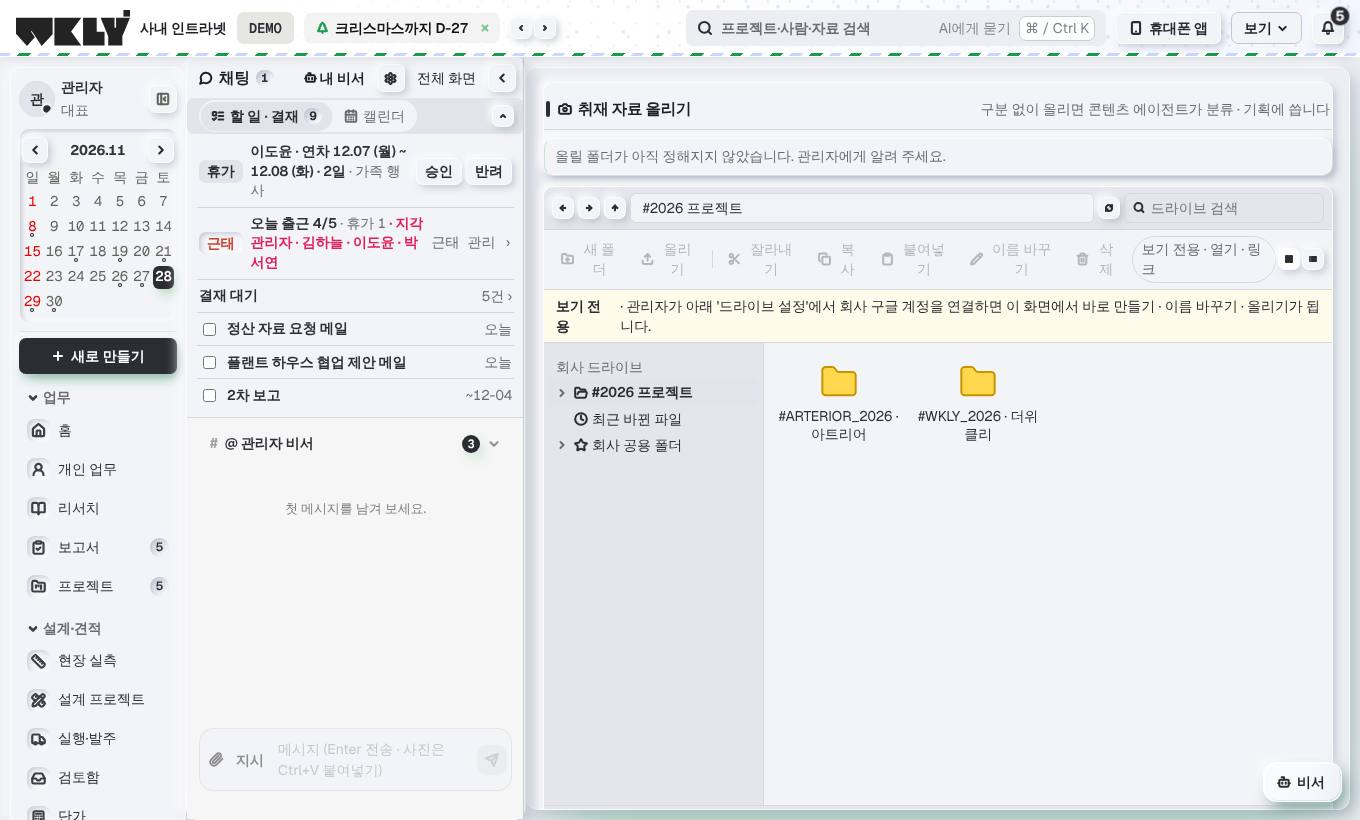
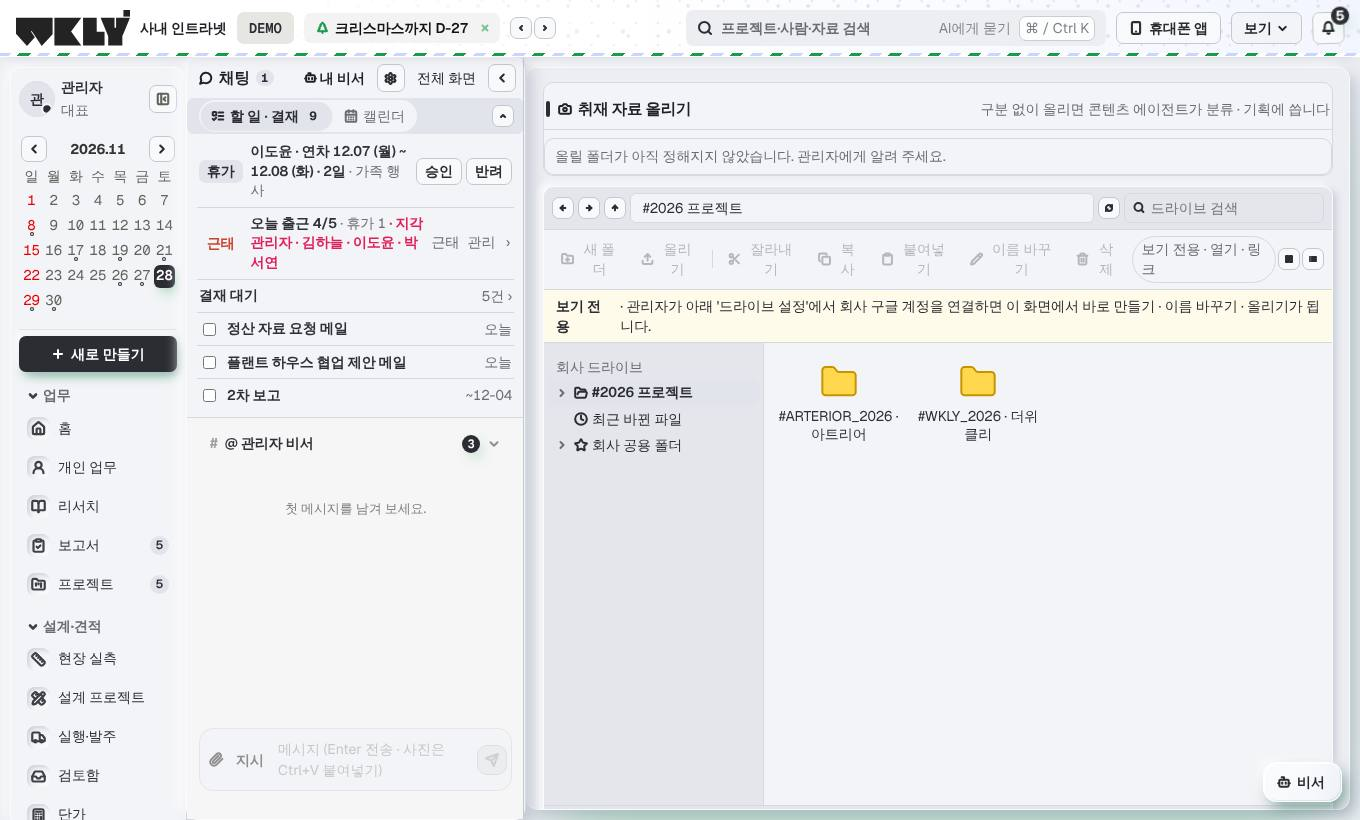
디자인 v9 절제: 깊이는 한 단계만, 카드 안은 평평하게
Claude-Session: https://claude.ai/code/session_01F3gTQwJrgJEzSdbh5GAwru

diff --git a/erp/src/mono.css b/erp/src/mono.css
@@ -398,3 +398,41 @@ html:not([data-theme="dark"]) :is(.pane-list.chat-list, .chat-dock-in) :is(a.ite
 html:not([data-theme="dark"]) :is(.quick-composer, .chat-composer, .composer) { background: var(--nm-face); border: 0; border-radius: 12px; box-shadow: var(--nm-in-sm); }
 html:not([data-theme="dark"]) :is(.quick-composer, .chat-composer, .composer) :is(textarea, input[type="text"]) { background: transparent; box-shadow: none !important; }
 html:not([data-theme="dark"]) .chat-day { background: var(--nm-face); box-shadow: var(--nm-in-sm); border-radius: 7px; }
+
+/* ================================================================================
+   절제 (2026-11-28 대표 '양각과 음각을 너무 많이 사용하지마 사용성 떨어져') — 이 절이 위의 볼록 · 오목 규칙보다 우선
+   - 깊이는 한 단계만: 떠 있는 것 = 큰 카드 · 본문 판 · 주 버튼 · 비서 단추 · 접힌 채팅 손잡이. 눌린 것 = 왼쪽 메뉴 아이콘 칸뿐
+   - 카드 안의 것(표 · 줄 · 칩 · 작은 버튼 · 입력 칸 · 고르기 칸 · 막대)은 평평하게: 옅은 선 한 줄이나 연한 바탕으로만 구분
+   ================================================================================ */
+html:not([data-theme="dark"]) { --nm-flat: #e6e9ee; --nm-field: #f8f9fb; }
+/* 입력 · 고르기 칸: 평평한 밝은 칸 + 선 */
+html:not([data-theme="dark"]) :is(.input, .select, .textarea, input[type="text"], input[type="search"], input[type="date"], input[type="number"], input[type="password"], input[type="email"], select, textarea) { background: var(--nm-field); border: 1px solid var(--v8-line-2) !important; box-shadow: none; }
+html:not([data-theme="dark"]) :is(.input, .select, .textarea, input, select, textarea):focus { border-color: var(--v9-ink) !important; box-shadow: 0 0 0 3px color-mix(in srgb, var(--v9-accent) 22%, transparent) !important; }
+/* 작은 버튼 · 칩: 평평 */
+html:not([data-theme="dark"]) :is(.btn-outline, .btn-ghost, .icon-btn, .quick-btn, .chip, .dock-fold, .btn-blue, .btn-yellow, .send-btn):not(.btn-primary):not(.new-btn) { background: var(--nm-field); border: 1px solid var(--v8-line-2) !important; box-shadow: none !important; }
+html:not([data-theme="dark"]) :is(.btn-outline, .btn-ghost, .icon-btn, .quick-btn, .chip, .btn-blue, .btn-yellow, .send-btn):not(.btn-primary):not(.new-btn):hover:not(:disabled) { background: #fff; border-color: var(--v9-ink) !important; box-shadow: none !important; }
+html:not([data-theme="dark"]) :is(.btn, .icon-btn, .quick-btn, .chip):active { box-shadow: none; }
+html:not([data-theme="dark"]) :is(.chip.active, .chip.on, .ads-subnav button.active) { background: var(--v9-ink) !important; color: #fff !important; border-color: var(--v9-ink) !important; box-shadow: none !important; }
+/* 구간 고르기: 평평한 회색 홈 + 흰 칸 */
+html:not([data-theme="dark"]) :is(.ads-segment, .seg, .right-tabs, .ads-nav) { background: var(--nm-flat); box-shadow: none; }
+html:not([data-theme="dark"]) :is(.ads-segment, .seg, .right-tabs) button:is(.active, .on), html:not([data-theme="dark"]) .ads-nav button.active { box-shadow: 0 1px 2px rgba(120, 128, 148, .35) !important; }
+/* 카드 안의 카드 · 표 묶음 · 줄: 평평 */
+html:not([data-theme="dark"]) :is(.box, .stat, .kpi, .card, .dash-card, .section, .panel, .week-day, .sales-pipe, .weekly-box, details.box, .main) :is(.box, .stat, .kpi, .card, .board-wrap, .guide-card, .form-grid, .note, .section, .panel, .tile, .list-card, .sales-pipe-step, .ledger-kpi, .rd-kpi, .myproj-card, .ai-card, .gov-tile, .dash-day, .week-day) { box-shadow: none; border: 1px solid var(--v8-line) !important; }
+html:not([data-theme="dark"]) .board-wrap { box-shadow: none; border: 1px solid var(--v8-line); background: var(--nm-field); }
+html:not([data-theme="dark"]) .dash-body { box-shadow: none; background: transparent; }
+html:not([data-theme="dark"]) :is(.week-item, .dash-ev, .dash-d, .chat-day) { background: var(--nm-flat); box-shadow: none; }
+html:not([data-theme="dark"]) :is(.meter, .pc-bar, .dash-prog, .dash-vbar-track) { background: var(--nm-flat); box-shadow: none; }
+html:not([data-theme="dark"]) .dash-flow-col i:not([class]), html:not([data-theme="dark"]) .dash-flow-col i[class=''] { background: var(--nm-flat); box-shadow: none; }
+html:not([data-theme="dark"]) :is(.badge.red, .badge.late, .tag.red) { box-shadow: none; }
+html:not([data-theme="dark"]) .app-page .profile :is(.side-n, .side-item .count), html:not([data-theme="dark"]) .section-head .count, html:not([data-theme="dark"]) .side-n { box-shadow: none !important; }
+html:not([data-theme="dark"]) .app-page .profile .mini-cal { box-shadow: none; border: 0 !important; background: transparent !important; }
+html:not([data-theme="dark"]) .dash-kpi-ic { box-shadow: none; background: var(--nm-flat); }
+html:not([data-theme="dark"]) .dash-kpi.is-key .dash-kpi-ic { background: var(--v9-ink); box-shadow: var(--nm-neon-sm); }
+/* 채팅: 목록 · 입력 칸 평평 */
+html:not([data-theme="dark"]) .pane-list.chat-list { box-shadow: none; border-right: 1px solid var(--v8-line); }
+html:not([data-theme="dark"]) :is(.pane-list.chat-list, .chat-dock-in) :is(a.item, button.item, .q2-room):is(.active, .on) { background: var(--nm-flat); box-shadow: none; }
+html:not([data-theme="dark"]) :is(.quick-composer, .chat-composer, .composer) { background: var(--nm-field); border: 1px solid var(--v8-line-2); box-shadow: none; }
+html:not([data-theme="dark"]) .bubble { box-shadow: none; border: 1px solid var(--v8-line); background: var(--nm-field); }
+html:not([data-theme="dark"]) :is(.bubble.mine, .msg.mine .bubble) { box-shadow: none; border-color: transparent; }
+html:not([data-theme="dark"]) button.item:is(.active, .on) { box-shadow: none; background: var(--nm-flat); }
+@media (max-width: 760px) { html:not([data-theme="dark"]) .m-nav > .on { box-shadow: none; background: var(--nm-flat) !important; } html:not([data-theme="dark"]) .m-more-grid > a { box-shadow: none; border: 1px solid var(--v8-line); } }

diff --git a/CLAUDE.md b/CLAUDE.md
@@ -112,7 +112,7 @@ Codex 공동 개발은 끝났다(2026-11-16 종료 · 2026-11-20 대표 지시 '
   - `src/styles.css` : 디자인 토큰 · WKLY v7 디자인 시스템 (사각 모서리, 글자 크기 단계 `--fs-cap 12 · sm 12.5 · body 13.5 · sub 14.5 · title 16 · num 19 · hero 28` (2026-11-09 위계 다시 잡음 · 맨 아래 :root 가 최종값 · 터치 화면은 반 단계 큼))
   - (아래 글자 위계의 굵기 800 · 700 은 2026-11-28 디자인 v9 에서 700 · 600 으로, 색 값은 mono.css 토큰으로 바뀜 — 크기 3단계 · px 직접 쓰지 않기 규칙은 그대로)
   - **글자 위계 (2026-11-17 대표 지시 '전체 공통사항 · 글자 크기는 타이틀 · 본문 · 강조 3가지만 · 색 구분과 볼드 규칙') — 새 화면도 반드시 지킬 것**: `src/type.css` 를 main.tsx 맨 끝에서 읽어 앞의 모든 단계를 덮어씀. 크기 3개 = 타이틀 `--t-title` 18px(제목 · 큰 숫자) · 강조 `--t-em` 15.5px(소제목 · 이름 줄) · 본문 `--t-body` 14px(나머지 전부 — 날짜 · 메타 · 배지 포함, 터치 화면 18.5/16/15) · 예전 토큰은 cap/sm/small/body → 본문, sub → 강조, title/num/hero → 타이틀로 이어짐. CSS 에 px 글자 크기를 새로 쓰지 말고 var(--fs-body | --fs-sub | --fs-title) 만 쓸 것(2026-11-17 에 94곳 바꿈 · 예외는 알림 숫자 동그라미 .side-n · .q2-badge · .bell .count 12px). 굵기 3개 = 800 타이틀 · 700 강조 · 400 본문(500 · 600 · 650 · 750 안 씀 · 76곳 바꿈). 색 = --tx-title #151d18 · --tx-body #222a25 · --tx-sub #535c56(보조는 크기 대신 색으로 낮춤 · --gray 도 이 색) · --tx-key #1f6b4a(누를 수 있는 것 · 고른 것) · 빨강은 지연 · 경고만. 묶음 클래스 .tx-title · .tx-em · .tx-body · .tx-sub · .tx-key. 차트 SVG 글자(charts.tsx 등)는 그대로
-  - **디자인 v9 모노톤 + 네온 빛 (2026-11-28 대표가 핀터레스트 참고 화면 넷을 골라 '이것들을 조합해서 디자인잡아 · 인트라넷 디자인 전체를 변경해 · 모노톤과 네온 효과' → '남은 화면들도 모노톤으로 · 폰트와 디자인규칙까지 모두 변경해 · 대시보드또한 디자인 배치 다시' · '색은 첨부이미지와 같이 네온 효과' · '빛이 새어나가는 효과를 잘 만들어') — 규칙 문서 `erp/docs/DESIGN_V9.md` · 새 화면도 반드시 이 규칙**: `src/mono.css`(main.tsx 맨 끝)가 토큰을 정함. ① 색 = 회색 계열 하나(바탕 #f0f0ee · 흰 카드 · 먹색 #141414 = 고른 것 · 막대) + 네온 파랑 `--v9-accent` #1f4dff 하나 · 빨강 · 노랑은 지연 · 경고만 · 초록 점은 '정상'만 ② 네온 = 가장자리에서 오른쪽 아래로 새어 나가는 파랑 빛 `--glow-1/2/3` · `--neon-soft` — 주 버튼 · 고른 것 · 오늘 · 가장 중요한 숫자 하나 · 누를 수 있는 카드 hover 에만, 글자색으로는 안 씀 ③ 글꼴 = 영문 · 숫자 Geist · 한글 Pretendard · 큰 숫자 · 연번 Geist Mono(구글 폰트 · index.html) · 크기 18 / 15.5 / 14 그대로 + 큰 숫자 `--t-num` 24 · **굵기 700 / 600 / 400**(예전 800 / 700 을 CSS 전체에서 한 단계씩 내림) ④ 모서리 카드 14 · 버튼 10 · 알약 ⑤ 카드 틀 = 회색 머리 + 흰 본문. 같은 날 **모든 CSS 의 굳은 색을 회색으로 바꿈**(초록 · 미색 · 보라 → 같은 밝기 회색 · 파랑 → `--v9-accent` / `-tint` · '화면 어둡게' 규칙 줄은 그대로 · 빨강 · 주황 · 노랑은 그대로) — **새 CSS 에 색 값을 직접 쓰지 말고 토큰을 쓸 것.** 구분 색은 `--div-ar/tw/rs`(먹색 · 회색 · 연회색) · 달력 내 업무는 네온 파랑. 홈 대시보드 새 배치(`pages/Dashboard.tsx` · `.css`): 인사 + 주 버튼 → 숫자 카드 넷(작은 막대 · 아래 설명 줄 · 첫 카드에 빛) → '업무 흐름' 점 격자(지난 2주 끝낸 일 · 앞으로 2주 마감 · 오늘 기둥에 빛 · `lib/dashboard.ts` dayFlow) + 팀원 세로 막대 → 마감이 가까운 프로젝트 표(진행 막대 · 상태 알약) → 앞으로 7일 · 구분별 → 진행 프로젝트 카드. 같은 날 2차 '부드럽게'(대표 '아직 안 바꾼 곳들도 모두 모노톤으로' · '디자인 ui,ux도 바꿔 · 색상의 사용도 수정하고 · 부드러운 느낌'): 새까만 색 대신 부드러운 먹색 `--v9-ink` #2b2d33 · 고른 것은 검은 알약 대신 연한 파랑 바탕 · 자주 누르는 버튼(.btn-blue 등)은 연한 파랑 · 테두리 대신 옅은 그림자 · 카드 18 / 버튼 12 · **styles.css 의 '모든 모서리 0 !important' 고정을 없앰(다시 넣지 말 것)** · 빛은 테 없이 넓게 · 0.2초 전환 · 창 뒤 뿌옇게. 차트(LedgerStats · MarketingFlow) · 화이트보드(미니맵 · 커서 · Excalidraw 색) · 설계(제안 보드 견본 색 · 3D 바닥 · 도면 바탕) · 기념일 장식 띠 · PC 오프라인 화면(desktop/offline.html — 다음 PC 프로그램 릴리스 때 반영)도 회색 + 네온 파랑. 그대로 둔 것: 실제 자재 색(3D · 마감재) · 거래처에 나가는 것(제안서 슬라이드 · 영업 메일 · 카드뉴스 · 광고 이미지). 같은 날 3차 '선명하게 · 메뉴마다 다른 색'(대표 '광고 화면 기간 고르기 칸과 묶음 탭도 고쳐 · 아이콘과 배경들 각각의 카드들의 선구분을 선명하게 · 색은 각 메뉴마다 다른 색' · 참고 Product UI Styleguide): **강조색 `--v9-accent` 는 메뉴마다 다름**(`lib/menuColors.ts` · Shell 이 지금 메뉴 색을 html 에 넣음 · 빛 · 연한 바탕 · 주 버튼은 color-mix 로 계산 — CSS 에 파랑을 직접 쓰지 말 것 · 새 메뉴는 색 한 줄 추가) · 왼쪽 메뉴는 대표 지시로 다시 모노톤(아이콘 · 고른 줄 · 숫자 칸 먹색 — 메뉴 색은 화면 안에서만) · 카드는 흰 바탕 + 1px 선 #dbdbd7 + 옅은 그림자(바탕 #eeeeeb) · 광고 묶음 탭 = 홈 안의 흰 카드 · 기간 고르기 = 알약. 같은 날 4차 '볼록 · 오목'(대표가 뉴모피즘 참고 그림 두 장을 보내 '이 ui도 사용해' · '이것도 넣어'): 면은 바탕과 거의 같은 밝은 회색 · 구분은 왼쪽 위 빛 + 오른쪽 아래 그림자(`--nm-up` 떠 있음 = 카드 · 버튼 / `--nm-in` 눌림 = 입력 칸 · 고른 칩 · 고른 메뉴 줄) · 구간 고르기는 회색 홈 + 흰 알약 · 켜고 끄는 설정은 체크박스에 className `nm-switch`(스위치 모양). 같은 날 5차(대표 '나머지 화면들도 모두 볼록 오목 디자인으로 · 모서리 라운드 좀 더 각지게'): 흰 바탕을 없앰 — `--white` · `--v8-card` 와 모든 CSS 의 흰 바탕 165곳을 `var(--nm-face)` 로(**새 CSS 에 `background: #fff` 를 쓰지 말 것**) · 테두리 있는 묶음 칸 30여 종을 떠 있는 모양으로 · 모서리 카드 10 / 버튼 · 입력 · 칩 7 / 큰 판 12(알약 · 원은 스위치와 숫자 동그라미만). **같은 날 최종 규칙(대표 '너무 많은 색을 사용하지마 · 전체적으로 모노톤에 그림자를 네온 번지는 효과로 · 각 메뉴마다 다른 색' · '휴대폰 화면도 볼록 오목'): 면 · 글자 · 아이콘 · 버튼 · 숫자 동그라미는 먹색과 회색만, 메뉴 색(`--v9-accent`)은 그림자가 번지는 빛(`--nm-neon` · `--nm-neon-sm`)으로만 쓴다 — 색 글자 · 색 바탕 버튼 · 색 배지를 새로 만들지 말 것. 빨강(산호색)은 지연 · 경고만. 휴대폰 아래 메뉴도 떠 있는 판 + 고른 칸 눌린 홈.** 같은 날(대표 '채팅 화면도 볼록 오목 · 아이콘 오목으로 · 채팅 상단부 높이 내려서 왼쪽에서 돌출 · 비서도 양각 유리'): 왼쪽 메뉴 아이콘 칸 = 오목 · 접힌 채팅 칸(.chat-dock.closed) = 왼쪽 판에서 튀어나온 짧은 손잡이 · 비서 단추(.ast-fab) · 비서 창 = 양각 유리 · 채팅 방 목록 눌린 홈 / 고른 방 떠 있음 / 입력 칸 눌린 홈. 사용 안내 사진 13장 · 영상 3개 다시 찍음 · 안내 글(guides.ts 두 곳)의 홈 · 할 일(/my) · 일정(/projects?view=calendar)을 새 구조에 맞춤(agent-chat 쪽은 다음 배포 때 반영).
+  - **디자인 v9 모노톤 + 네온 빛 (2026-11-28 대표가 핀터레스트 참고 화면 넷을 골라 '이것들을 조합해서 디자인잡아 · 인트라넷 디자인 전체를 변경해 · 모노톤과 네온 효과' → '남은 화면들도 모노톤으로 · 폰트와 디자인규칙까지 모두 변경해 · 대시보드또한 디자인 배치 다시' · '색은 첨부이미지와 같이 네온 효과' · '빛이 새어나가는 효과를 잘 만들어') — 규칙 문서 `erp/docs/DESIGN_V9.md` · 새 화면도 반드시 이 규칙**: `src/mono.css`(main.tsx 맨 끝)가 토큰을 정함. ① 색 = 회색 계열 하나(바탕 #f0f0ee · 흰 카드 · 먹색 #141414 = 고른 것 · 막대) + 네온 파랑 `--v9-accent` #1f4dff 하나 · 빨강 · 노랑은 지연 · 경고만 · 초록 점은 '정상'만 ② 네온 = 가장자리에서 오른쪽 아래로 새어 나가는 파랑 빛 `--glow-1/2/3` · `--neon-soft` — 주 버튼 · 고른 것 · 오늘 · 가장 중요한 숫자 하나 · 누를 수 있는 카드 hover 에만, 글자색으로는 안 씀 ③ 글꼴 = 영문 · 숫자 Geist · 한글 Pretendard · 큰 숫자 · 연번 Geist Mono(구글 폰트 · index.html) · 크기 18 / 15.5 / 14 그대로 + 큰 숫자 `--t-num` 24 · **굵기 700 / 600 / 400**(예전 800 / 700 을 CSS 전체에서 한 단계씩 내림) ④ 모서리 카드 14 · 버튼 10 · 알약 ⑤ 카드 틀 = 회색 머리 + 흰 본문. 같은 날 **모든 CSS 의 굳은 색을 회색으로 바꿈**(초록 · 미색 · 보라 → 같은 밝기 회색 · 파랑 → `--v9-accent` / `-tint` · '화면 어둡게' 규칙 줄은 그대로 · 빨강 · 주황 · 노랑은 그대로) — **새 CSS 에 색 값을 직접 쓰지 말고 토큰을 쓸 것.** 구분 색은 `--div-ar/tw/rs`(먹색 · 회색 · 연회색) · 달력 내 업무는 네온 파랑. 홈 대시보드 새 배치(`pages/Dashboard.tsx` · `.css`): 인사 + 주 버튼 → 숫자 카드 넷(작은 막대 · 아래 설명 줄 · 첫 카드에 빛) → '업무 흐름' 점 격자(지난 2주 끝낸 일 · 앞으로 2주 마감 · 오늘 기둥에 빛 · `lib/dashboard.ts` dayFlow) + 팀원 세로 막대 → 마감이 가까운 프로젝트 표(진행 막대 · 상태 알약) → 앞으로 7일 · 구분별 → 진행 프로젝트 카드. 같은 날 2차 '부드럽게'(대표 '아직 안 바꾼 곳들도 모두 모노톤으로' · '디자인 ui,ux도 바꿔 · 색상의 사용도 수정하고 · 부드러운 느낌'): 새까만 색 대신 부드러운 먹색 `--v9-ink` #2b2d33 · 고른 것은 검은 알약 대신 연한 파랑 바탕 · 자주 누르는 버튼(.btn-blue 등)은 연한 파랑 · 테두리 대신 옅은 그림자 · 카드 18 / 버튼 12 · **styles.css 의 '모든 모서리 0 !important' 고정을 없앰(다시 넣지 말 것)** · 빛은 테 없이 넓게 · 0.2초 전환 · 창 뒤 뿌옇게. 차트(LedgerStats · MarketingFlow) · 화이트보드(미니맵 · 커서 · Excalidraw 색) · 설계(제안 보드 견본 색 · 3D 바닥 · 도면 바탕) · 기념일 장식 띠 · PC 오프라인 화면(desktop/offline.html — 다음 PC 프로그램 릴리스 때 반영)도 회색 + 네온 파랑. 그대로 둔 것: 실제 자재 색(3D · 마감재) · 거래처에 나가는 것(제안서 슬라이드 · 영업 메일 · 카드뉴스 · 광고 이미지). 같은 날 3차 '선명하게 · 메뉴마다 다른 색'(대표 '광고 화면 기간 고르기 칸과 묶음 탭도 고쳐 · 아이콘과 배경들 각각의 카드들의 선구분을 선명하게 · 색은 각 메뉴마다 다른 색' · 참고 Product UI Styleguide): **강조색 `--v9-accent` 는 메뉴마다 다름**(`lib/menuColors.ts` · Shell 이 지금 메뉴 색을 html 에 넣음 · 빛 · 연한 바탕 · 주 버튼은 color-mix 로 계산 — CSS 에 파랑을 직접 쓰지 말 것 · 새 메뉴는 색 한 줄 추가) · 왼쪽 메뉴는 대표 지시로 다시 모노톤(아이콘 · 고른 줄 · 숫자 칸 먹색 — 메뉴 색은 화면 안에서만) · 카드는 흰 바탕 + 1px 선 #dbdbd7 + 옅은 그림자(바탕 #eeeeeb) · 광고 묶음 탭 = 홈 안의 흰 카드 · 기간 고르기 = 알약. 같은 날 4차 '볼록 · 오목'(대표가 뉴모피즘 참고 그림 두 장을 보내 '이 ui도 사용해' · '이것도 넣어'): 면은 바탕과 거의 같은 밝은 회색 · 구분은 왼쪽 위 빛 + 오른쪽 아래 그림자(`--nm-up` 떠 있음 = 카드 · 버튼 / `--nm-in` 눌림 = 입력 칸 · 고른 칩 · 고른 메뉴 줄) · 구간 고르기는 회색 홈 + 흰 알약 · 켜고 끄는 설정은 체크박스에 className `nm-switch`(스위치 모양). 같은 날 5차(대표 '나머지 화면들도 모두 볼록 오목 디자인으로 · 모서리 라운드 좀 더 각지게'): 흰 바탕을 없앰 — `--white` · `--v8-card` 와 모든 CSS 의 흰 바탕 165곳을 `var(--nm-face)` 로(**새 CSS 에 `background: #fff` 를 쓰지 말 것**) · 테두리 있는 묶음 칸 30여 종을 떠 있는 모양으로 · 모서리 카드 10 / 버튼 · 입력 · 칩 7 / 큰 판 12(알약 · 원은 스위치와 숫자 동그라미만). **같은 날 최종 규칙(대표 '너무 많은 색을 사용하지마 · 전체적으로 모노톤에 그림자를 네온 번지는 효과로 · 각 메뉴마다 다른 색' · '휴대폰 화면도 볼록 오목'): 면 · 글자 · 아이콘 · 버튼 · 숫자 동그라미는 먹색과 회색만, 메뉴 색(`--v9-accent`)은 그림자가 번지는 빛(`--nm-neon` · `--nm-neon-sm`)으로만 쓴다 — 색 글자 · 색 바탕 버튼 · 색 배지를 새로 만들지 말 것. 빨강(산호색)은 지연 · 경고만. 휴대폰 아래 메뉴도 떠 있는 판 + 고른 칸 눌린 홈.** 같은 날(대표 '채팅 화면도 볼록 오목 · 아이콘 오목으로 · 채팅 상단부 높이 내려서 왼쪽에서 돌출 · 비서도 양각 유리'): 왼쪽 메뉴 아이콘 칸 = 오목 · 접힌 채팅 칸(.chat-dock.closed) = 왼쪽 판에서 튀어나온 짧은 손잡이 · 비서 단추(.ast-fab) · 비서 창 = 양각 유리 · 채팅 방 목록 눌린 홈 / 고른 방 떠 있음 / 입력 칸 눌린 홈. **절제(대표 '양각과 음각을 너무 많이 사용하지마 사용성 떨어져'): 깊이는 한 단계만 — 떠 있는 것은 큰 카드 · 본문 판 · 주 버튼 · 비서 단추 · 접힌 채팅 손잡이, 눌린 것은 왼쪽 메뉴 아이콘 칸뿐. 카드 안의 표 · 칩 · 작은 버튼 · 입력 칸 · 막대 · 말풍선은 평평하게(옅은 선 · `--nm-flat` · `--nm-field`) — 새 화면에서 카드 안에 그림자를 또 넣지 말 것.** 사용 안내 사진 13장 · 영상 3개 다시 찍음 · 안내 글(guides.ts 두 곳)의 홈 · 할 일(/my) · 일정(/projects?view=calendar)을 새 구조에 맞춤(agent-chat 쪽은 다음 배포 때 반영).
   - 디자인 v8 (2026-11-16 대표 지시 '인트라넷 디자인 개선해' · Houzz Pro 스타일 계획 문서 1단계): `src/refresh.css` 를 main.tsx 맨 끝에서 읽음 — 따뜻한 미색 바탕(#f6f4ef) · 흰 작업 칸 · 둥근 모서리(카드 12 · 버튼·입력 8 · 태그 알약, v7 의 '모두 사각'을 덮어씀) · 흰 위쪽 바(초록 로고) · 테두리 없는 메뉴(고른 줄 흰 칸) · 밑줄 탭 · 가로선만 표 · 연한 배지 · 글꼴 Pretendard(jsdelivr · 무료) + 숫자도 같은 글꼴 고정폭. 색은 `html:not([data-theme=dark])` 에만 → '화면 어둡게'는 그대로. 새 화면은 --v8-* 토큰을 쓸 것. import 한 줄을 빼면 v7 로 돌아감
   - 실행 내역 엑셀 읽기 (2026-11-17 대표 우선순위 3 '실제 프로젝트로 검증'): `lib/designCost.ts` parseCostSheet 가 회사 '실행집행 내역서' 양식(구분 · 견적 항목 · 실행 내역 · 단위 · 수량 · 실행 단가 · 실행 금액 · 발주처 · 근거·확인)도 읽음 — 품목 = 실행 내역, 구분 · 견적 항목은 아래 줄로 이어 씀(견적 항목은 비고 앞 [ ]), 단위 저장, 발주처 '미정 · 내부 · —'는 업체 없음. 예전엔 '실행 단가' 머리 줄을 못 알아봐 '실행 내역을 찾지 못했습니다'가 났음. 시험 tests/design-cost.test.ts. 11/17 로제코(AR2610-08) 설계 프로젝트에 실물 60줄 · 49,703,600원 넣어 확인(openpyxl 계산과 일치 · 견적 공급가 6,000만 대비 실행 82.8%). 조달청 물가 기준은 이 견적처럼 인건비(인) · 식 단위가 많으면 0/60 매칭 → 시중노임단가 기준이 다음 과제
   - 사진 카드 (2026-11-17 대표 우선순위 1 'Houzz Pro 식 화면 개편'): 프로젝트 카드(홈 · 프로젝트 '카드' 보기 · `components/ProjectCards.tsx`) 맨 위 16:10 대표 사진 + 사진 위 구분 알약 · 남은 기간, 사진 없으면 구분 색 바탕에 연번. 프로젝트 상세 머리 아래 표지 사진(`ProjectCoverBanner` · 사진 있을 때만). 홈 숫자 카드 4개 왼쪽 아이콘 타일. 사진은 서버 함수 `project-covers`(verify_jwt false · x-sync-key = GDRIVE_SYNC_KEY · 10분마다 cron project_covers → private.project_covers_tick)가 drive_index 사진 중 하나를 골라(`project-covers/cover.ts` pickCover: 준공 · 촬영 > 투시도 · 렌더 · 성과물 그래픽 > 현장 사진(상권조사 제외) > 컨셉 · 시안 > 기타 · 계약 · 견적 · 통장 · 명함 · 캡처 · 로고 · 슬랙 · 카톡 제외 · 60KB 이상) 드라이브 미리보기(긴 변 800px)만 비공개 보관함 project-covers 에 넣음 · 표 public.project_covers(활성 팀원 읽기 · 쓰기는 서버만 · source auto|manual · 자동은 3일마다 다시 고름) · api.projectCovers()(서명 주소 1시간 · signedUrlCache) · 체험 모드는 사진 없음. 20261117201000_project_covers. 시험 `npm run test:covers`

diff --git a/erp/docs/DESIGN_V9.md b/erp/docs/DESIGN_V9.md
@@ -90,3 +90,9 @@
 - 휴대폰도 같은 규칙: 아래 메뉴는 떠 있는 판, 고른 칸은 눌린 홈 + 네온 그림자, 본문은 판 없이 바탕 위에 카드.
 
 - (2026-11-28 대표 지시) 왼쪽 메뉴 아이콘 칸은 오목(눌린 홈) · 접힌 채팅 칸은 위에서 조금 내려와 왼쪽 판에서 튀어나온 짧은 손잡이 · 비서 단추와 비서 창은 양각 유리(반투명 + 뒤 흐림 + 밝은 테) · 채팅 방 목록은 눌린 홈, 고른 방은 떠 있는 줄, 입력 칸은 눌린 홈.
+
+## 절제 (2026-11-28 대표 '양각과 음각을 너무 많이 사용하지마 사용성 떨어져' — 볼록 · 오목 절보다 우선)
+
+- 깊이는 **한 단계만**. 떠 있는 것: 큰 카드 · 본문 판 · 왼쪽 메뉴 판 · 주 버튼 · 비서 단추 · 접힌 채팅 손잡이. 눌린 것: 왼쪽 메뉴 아이콘 칸뿐.
+- 카드 안의 것은 평평하게: 표 · 줄 · 칩 · 작은 버튼 · 입력 칸 · 고르기 칸 · 막대 · 말풍선은 옅은 선 한 줄(`--v8-line`)이나 연한 바탕(`--nm-flat` · `--nm-field`)으로만 구분한다. 카드 안에 또 떠 있는 카드를 넣지 않는다.
+- 고른 칩 = 먹색 바탕 + 흰 글자(평평). 구간 고르기 = 평평한 회색 홈 + 흰 칸.
